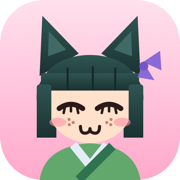
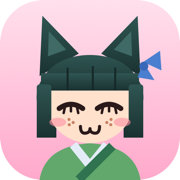
Héroïne fidèle à la figurine sur l'écran d'accueil
- Grands yeux violets aux reflets en étoile, cils épais, bouche « tehe » langue tirée ;
  les yeux fermés d'aise deviennent le clignement
- Bras avec coude : pose « pattes de chat », petites mains levées près de la poitrine,
  mains avec doigts esquissés
- Ruban bleu, perles rouge et bleue sur les tresses, cadrage rapproché au menu
- Icône : ruban bleu

Changed region(s): [[0.75, 0.2778, 0.9167, 0.4444]]

diff --git a/js/girl.js b/js/girl.js
@@ -10,14 +10,14 @@ const COL = {
   collar: '#e4ecf7',
   collarBlue: '#b9c9e6',
   shoe: '#3a2430',
-  beadPink: '#e86a8a',
-  beadTeal: '#3fb3a0',
+  beadPink: '#d8303a',
+  beadTeal: '#2f6fb8',
   dark: '#2b1a1a',
 };
 
 // Tenues débloquées tous les 10 bonbons : haut, poignets, bandoulière, jupe, ruban
 export const PALETTES = [
-  { name: 'Jade', top: '#62a86c', cuff: '#b4dc84', sash: '#2f7350', skirt: '#7d2a4c', ribbon: '#8a6ad8' },
+  { name: 'Jade', top: '#62a86c', cuff: '#b4dc84', sash: '#2f7350', skirt: '#7d2a4c', ribbon: '#4a7fd0' },
   { name: 'Sakura', top: '#f49ac0', cuff: '#ffd6e6', sash: '#c2457a', skirt: '#3b4a8a', ribbon: '#ffd23f' },
   { name: 'Lavande', top: '#a98be0', cuff: '#e2d4ff', sash: '#6a4bb8', skirt: '#3d2f63', ribbon: '#ff8fb6' },
   { name: 'Ciel', top: '#6fb3e8', cuff: '#cfe8ff', sash: '#2e6fb0', skirt: '#24406e', ribbon: '#ffd23f' },
@@ -35,7 +35,18 @@ function toonGradient(levels) {
 }
 
 // ---------- Visage dessiné (texture sur la sphère de la tête, centrée en u = 0.75) ----------
-const FACE_W = 1024, FACE_H = 512, FCX = 768, EYE_Y = 270, EYE_DX = 64;
+const FACE_W = 1024, FACE_H = 512, FCX = 768, EYE_Y = 284, EYE_DX = 66;
+
+// étoile à 4 branches (reflet dans les yeux)
+function star4(g, x, y, r) {
+  g.beginPath();
+  g.moveTo(x, y - r);
+  g.quadraticCurveTo(x + r * 0.15, y - r * 0.15, x + r * 0.8, y);
+  g.quadraticCurveTo(x + r * 0.15, y + r * 0.15, x, y + r);
+  g.quadraticCurveTo(x - r * 0.15, y + r * 0.15, x - r * 0.8, y);
+  g.quadraticCurveTo(x - r * 0.15, y - r * 0.15, x, y - r);
+  g.fill();
+}
 
 function drawFace(kind) {
   const c = document.createElement('canvas');
@@ -49,27 +60,27 @@ function drawFace(kind) {
 
   for (const sx of [-1, 1]) {
     // joues roses et petits traits
-    const bx = FCX + sx * 98, by = 306;
-    const grd = g.createRadialGradient(bx, by, 2, bx, by, 34);
-    grd.addColorStop(0, 'rgba(255,125,140,0.45)');
+    const bx = FCX + sx * 104, by = 326;
+    const grd = g.createRadialGradient(bx, by, 2, bx, by, 32);
+    grd.addColorStop(0, 'rgba(255,125,140,0.42)');
     grd.addColorStop(1, 'rgba(255,125,140,0)');
     g.fillStyle = grd;
     g.beginPath();
-    g.ellipse(bx, by, 36, 22, 0, 0, Math.PI * 2);
+    g.ellipse(bx, by, 34, 20, 0, 0, Math.PI * 2);
     g.fill();
-    g.strokeStyle = 'rgba(225,90,110,0.7)';
-    g.lineWidth = 3;
+    g.strokeStyle = 'rgba(225,90,110,0.6)';
+    g.lineWidth = 2.5;
     for (let i = -1; i <= 1; i++) {
       g.beginPath();
-      g.moveTo(bx + 14 + i * 9 - 4, by + 8);
-      g.lineTo(bx + 14 + i * 9 + 4, by - 8);
+      g.moveTo(bx + 12 + i * 8 - 3, by + 7);
+      g.lineTo(bx + 12 + i * 8 + 3, by - 7);
       g.stroke();
     }
-    // taches de rousseur
-    g.fillStyle = 'rgba(185,105,70,0.75)';
-    for (const [dx, dy] of [[-30, 2], [-20, -6], [-14, 6], [-24, 12], [-36, -4]]) {
+    // taches de rousseur sous les yeux
+    g.fillStyle = 'rgba(185,105,70,0.8)';
+    for (const [dx, dy] of [[-26, 0], [-16, -6], [-10, 5], [-20, 10], [-32, -6], [-4, -2]]) {
       g.beginPath();
-      g.arc(FCX + sx * (EYE_DX + dx + 4), 304 + dy, 2.6, 0, Math.PI * 2);
+      g.arc(FCX + sx * (EYE_DX + dx), 330 + dy, 2.4, 0, Math.PI * 2);
       g.fill();
     }
   }
@@ -78,11 +89,37 @@ function drawFace(kind) {
   for (const sx of [-1, 1]) {
     const ex = FCX + sx * EYE_DX, ey = EYE_Y;
     if (kind === 'open') {
+      // grands yeux violets aux reflets en étoile
+      g.fillStyle = '#ffffff';
+      g.beginPath(); g.ellipse(ex, ey + 3, 31, 36, 0, 0, Math.PI * 2); g.fill();
+      const ig = g.createLinearGradient(0, ey - 32, 0, ey + 38);
+      ig.addColorStop(0, '#2a1450');
+      ig.addColorStop(0.45, '#5b34a8');
+      ig.addColorStop(1, '#c9a6ff');
+      g.fillStyle = ig;
+      g.beginPath(); g.ellipse(ex, ey + 5, 27, 33, 0, 0, Math.PI * 2); g.fill();
+      g.fillStyle = 'rgba(25,10,45,0.85)';
+      g.beginPath(); g.ellipse(ex, ey + 2, 14, 17, 0, 0, Math.PI * 2); g.fill();
+      g.fillStyle = '#ffffff';
+      star4(g, ex, ey + 2, 17);                   // étoile centrale
+      g.beginPath(); g.arc(ex - sx * 12, ey - 15, 5, 0, Math.PI * 2); g.fill();
+      g.beginPath(); g.arc(ex + sx * 13, ey + 22, 3, 0, Math.PI * 2); g.fill();
+      // trait de cils épais, légèrement inquiet (plus haut côté intérieur)
+      g.lineWidth = 8;
+      g.beginPath();
+      g.moveTo(ex - sx * 34, ey - 18);
+      g.quadraticCurveTo(ex, ey - 40, ex + sx * 32, ey - 28);
+      g.stroke();
+      g.lineWidth = 5;
+      g.beginPath(); g.moveTo(ex - sx * 33, ey - 17); g.lineTo(ex - sx * 44, ey - 9); g.stroke();
+      g.lineWidth = 2.5;
+      g.beginPath(); g.moveTo(ex - sx * 16, ey + 40); g.quadraticCurveTo(ex - sx * 26, ey + 38, ex - sx * 30, ey + 28); g.stroke();
+    } else if (kind === 'blink') {
       // yeux fermés d'aise : trait arrondi et petits cils dessous
       g.lineWidth = 8;
       g.beginPath();
-      g.moveTo(ex - 36, ey + 4);
-      g.quadraticCurveTo(ex, ey - 12, ex + 36, ey + 4);
+      g.moveTo(ex - 34, ey + 4);
+      g.quadraticCurveTo(ex, ey - 12, ex + 34, ey + 4);
       g.stroke();
       g.lineWidth = 4;
       for (const k of [-0.55, 0, 0.55]) {
@@ -95,8 +132,8 @@ function drawFace(kind) {
     } else if (kind === 'happy') {
       g.lineWidth = 9;
       g.beginPath();
-      g.moveTo(ex - 32, ey + 12);
-      g.quadraticCurveTo(ex, ey - 28, ex + 32, ey + 12);
+      g.moveTo(ex - 30, ey + 10);
+      g.quadraticCurveTo(ex, ey - 28, ex + 30, ey + 10);
       g.stroke();
     } else if (kind === 'ouch') {
       g.lineWidth = 9;
@@ -112,33 +149,46 @@ function drawFace(kind) {
   }
 
   // bouche
-  const my = 338;
+  const my = 352;
   if (kind === 'happy' || kind === 'ouch') {
     g.fillStyle = '#b8344b';
     g.beginPath();
     if (kind === 'happy') {
-      g.moveTo(FCX - 20, my - 6);
-      g.quadraticCurveTo(FCX, my + 34, FCX + 20, my - 6);
+      g.moveTo(FCX - 18, my - 6);
+      g.quadraticCurveTo(FCX, my + 30, FCX + 18, my - 6);
       g.closePath();
     } else {
-      g.ellipse(FCX, my + 2, 11, 9, 0, 0, Math.PI * 2);
+      g.ellipse(FCX, my + 2, 10, 8, 0, 0, Math.PI * 2);
     }
     g.fill();
     g.save();
     g.clip();
     g.fillStyle = '#ff8fa6';
-    g.beginPath(); g.ellipse(FCX, my + 14, 12, 7, 0, 0, Math.PI * 2); g.fill();
+    g.beginPath(); g.ellipse(FCX, my + 13, 11, 6, 0, 0, Math.PI * 2); g.fill();
     g.restore();
   } else {
-    // bouche de chat "ω"
-    g.strokeStyle = COL.dark;
-    g.lineWidth = 5;
+    // "tehe" : petite bouche ouverte et langue tirée
+    g.fillStyle = '#9a2a3a';
     g.beginPath();
-    g.moveTo(FCX - 24, my - 6);
-    g.quadraticCurveTo(FCX - 24, my + 10, FCX - 12, my + 8);
-    g.quadraticCurveTo(FCX, my + 6, FCX, my - 2);
-    g.quadraticCurveTo(FCX, my + 6, FCX + 12, my + 8);
-    g.quadraticCurveTo(FCX + 24, my + 10, FCX + 24, my - 6);
+    g.moveTo(FCX - 16, my - 4);
+    g.quadraticCurveTo(FCX, my - 9, FCX + 16, my - 4);
+    g.quadraticCurveTo(FCX + 12, my + 10, FCX, my + 11);
+    g.quadraticCurveTo(FCX - 12, my + 10, FCX - 16, my - 4);
+    g.fill();
+    g.fillStyle = '#ff8a9e';
+    g.beginPath();
+    g.moveTo(FCX - 10, my + 4);
+    g.quadraticCurveTo(FCX - 12, my + 24, FCX + 1, my + 25);
+    g.quadraticCurveTo(FCX + 12, my + 24, FCX + 10, my + 4);
+    g.fill();
+    g.strokeStyle = '#e0607a';
+    g.lineWidth = 2;
+    g.beginPath(); g.moveTo(FCX, my + 9); g.lineTo(FCX, my + 18); g.stroke();
+    g.strokeStyle = COL.dark;
+    g.lineWidth = 3;
+    g.beginPath();
+    g.moveTo(FCX - 17, my - 4);
+    g.quadraticCurveTo(FCX, my - 10, FCX + 17, my - 4);
     g.stroke();
   }
 
@@ -270,14 +320,23 @@ export class Girl {
     add(B, cyl(0.052, 0.052, 0.1), m(COL.skin), [0, 1.32, 0]);
 
     // ---------- Bras : larges manches de kimono ----------
+    // bras en deux parties (coude) pour pouvoir lever les petites mains
+    this.forearms = [];
     this.arms = [-1, 1].map((sx) => {
       const arm = group(B, [sx * 0.19, 1.25, 0]);
       add(arm, sph, pal.top, [0, -0.02, 0], [0.08, 0.08, 0.08]);
-      add(arm, cyl(0.07, 0.125, 0.34), pal.top, [0, -0.19, 0]);
-      add(arm, cyl(0.128, 0.128, 0.06, 16, true), pal.cuff, [0, -0.36, 0]);
-      add(arm, cyl(0.131, 0.131, 0.015, 16, true), pal.sash, [0, -0.335, 0]);
-      add(arm, cyl(0.075, 0.075, 0.05, 12, true), m(COL.collar), [0, -0.38, 0]);   // manche intérieure blanche
-      add(arm, sph, m(COL.skin), [0, -0.39, 0], [0.045, 0.05, 0.04]);
+      add(arm, cyl(0.07, 0.1, 0.18), pal.top, [0, -0.09, 0]);
+      const fore = group(arm, [0, -0.17, 0]);
+      add(fore, sph, pal.top, [0, 0, 0], [0.095, 0.06, 0.095]);
+      add(fore, cyl(0.098, 0.125, 0.17), pal.top, [0, -0.085, 0]);
+      add(fore, cyl(0.128, 0.128, 0.06, 16, true), pal.cuff, [0, -0.19, 0]);
+      add(fore, cyl(0.131, 0.131, 0.015, 16, true), pal.sash, [0, -0.165, 0]);
+      add(fore, cyl(0.075, 0.075, 0.05, 12, true), m(COL.collar), [0, -0.21, 0]);   // manche intérieure blanche
+      // petite main avec doigts esquissés
+      add(fore, sph, m(COL.skin), [0, -0.235, 0], [0.05, 0.055, 0.035]);
+      for (const f of [-1, 0, 1]) add(fore, sph, m(COL.skin), [f * 0.025, -0.285, 0], [0.014, 0.024, 0.014]);
+      add(fore, sph, m(COL.skin), [-sx * 0.045, -0.25, 0], [0.013, 0.022, 0.013], [0, 0, sx * 0.6]);
+      this.forearms.push(fore);
       return arm;
     });
 
@@ -299,8 +358,7 @@ export class Girl {
     // ---------- Tête ----------
     const H = (this.head = group(B, [0, 1.63, 0]));
     H.scale.setScalar(1.06);
-    const open = drawFace('open');
-    this.faceTex = { open, blink: open, happy: drawFace('happy'), ouch: drawFace('ouch') };
+    this.faceTex = { open: drawFace('open'), blink: drawFace('blink'), happy: drawFace('happy'), ouch: drawFace('ouch') };
     this.faceMat = new THREE.MeshToonMaterial({ map: this.faceTex.open, gradientMap: toonGradient([200, 235, 255]) });
     add(H, new THREE.SphereGeometry(1, 48, 32), this.faceMat, [0, 0, 0], [0.34, 0.34, 0.34]);
     this.face = 'open';
@@ -406,7 +464,7 @@ export class Girl {
     const [legL, legR] = this.legs;
     const [armL, armR] = this.arms;
     const tgt = {
-      legL: 0, legR: 0, armLx: 0, armRx: 0, armLz: -0.25, armRz: 0.25,
+      legL: 0, legR: 0, armLx: 0, armRx: 0, armLz: -0.25, armRz: 0.25, fore: 0.35,
       bodyY: 0, lean: 0, headZ: 0, headX: 0,
     };
     let tailSpeed = 3, tailAmp = 0.25, tailLift = 0.75;
@@ -427,10 +485,14 @@ export class Girl {
       tgt.headX = 0.1;
       tailSpeed = 6; tailAmp = 0.15; tailLift = 1.5;
     } else if (mode === 'idle') {
+      // pose "pattes de chat" : petites mains levées de part et d'autre de la poitrine
       tgt.bodyY = Math.sin(t * 2.2) * 0.02;
-      tgt.armRz = 2.55 + Math.sin(t * 8) * 0.3;
-      tgt.armLz = -0.3;
-      tgt.headZ = Math.sin(t * 1.4) * 0.12;
+      tgt.armLx = 0.35; tgt.armRx = 0.35;
+      tgt.armLz = -0.32; tgt.armRz = 0.32;
+      tgt.fore = 2.15;
+      tgt.foreWave = Math.sin(t * 5) * 0.12;
+      tgt.headZ = Math.sin(t * 1.4) * 0.1;
+      tgt.headX = 0.06;
     } else if (mode === 'dead') {
       tgt.armLz = -2.2; tgt.armRz = 2.2;
       tgt.legL = 0.5; tgt.legR = -0.2;
@@ -442,6 +504,10 @@ export class Girl {
     armL.rotation.x = lerp(armL.rotation.x, tgt.armLx, k);
     armR.rotation.x = lerp(armR.rotation.x, tgt.armRx, k);
     armL.rotation.z = lerp(armL.rotation.z, tgt.armLz, k);
+    this.forearms.forEach((f, i) => {
+      const w = tgt.foreWave ? (i ? -tgt.foreWave : tgt.foreWave) : 0;
+      f.rotation.x = lerp(f.rotation.x, tgt.fore + w, k);
+    });
     armR.rotation.z = lerp(armR.rotation.z, tgt.armRz, k);
     this.body.position.y = lerp(this.body.position.y, -0.55 + tgt.bodyY, k);
     this.body.rotation.x = lerp(this.body.rotation.x, tgt.lean, k);
@@ -472,17 +538,17 @@ export class Girl {
     }
 
     // expressions : yeux fermés d'aise, sourire en saut / en saluant, >< en cas de choc
-    if (mode === 'idle') {
-      this.happyT -= dt;
-      if (this.happyT < -4) this.happyT = 1.4;
-    }
+    this.nextBlink -= dt;
+    if (this.nextBlink <= 0) { this.blinkT = 0.14; this.nextBlink = 2.2 + Math.random() * 2.5; }
+    this.blinkT -= dt;
     if (this.pop > 0) {
       this.pop = Math.max(0, this.pop - dt * 2);
       this.root.scale.setScalar(this.baseScale * (1 + Math.sin(this.pop * Math.PI * 3) * 0.12 * this.pop));
     }
     let face = 'open';
     if (mode === 'dead') face = 'ouch';
-    else if (mode === 'jump' || mode === 'roll' || this.pop > 0 || (mode === 'idle' && this.happyT > 0)) face = 'happy';
+    else if (mode === 'jump' || mode === 'roll' || this.pop > 0) face = 'happy';
+    else if (this.blinkT > 0) face = 'blink';
     this.setFace(face);
   }
 }

diff --git a/js/main.js b/js/main.js
@@ -391,11 +391,11 @@ const portrait = () => THREE.MathUtils.clamp((1.1 - camera.aspect) / 0.6, 0, 1);
 function camTargets(out, look) {
   const back = (1 - Math.cos(camAngle)) / 2;   // 0 = face à elle (menu), 1 = derrière (course)
   const pf = portrait();
-  const r = THREE.MathUtils.lerp(4.0, 6.6 + pf * 1.1, back);
-  const camY = THREE.MathUtils.lerp(1.5, player.y * 0.75 + 3.3 + pf * 1.0, back);
+  const r = THREE.MathUtils.lerp(2.75, 6.6 + pf * 1.1, back);   // menu : cadrage rapproché
+  const camY = THREE.MathUtils.lerp(1.25, player.y * 0.75 + 3.3 + pf * 1.0, back);
   const follow = 0.8 + pf * 0.2;
   out.set(player.x * follow * back + Math.sin(camAngle) * r, camY, player.z - Math.cos(camAngle) * r);
-  look.set(player.x * (0.9 + pf * 0.1) * back, THREE.MathUtils.lerp(1.15, player.y * 0.6 + 1.1, back), player.z - 10 * back);
+  look.set(player.x * (0.9 + pf * 0.1) * back, THREE.MathUtils.lerp(0.98, player.y * 0.6 + 1.1, back), player.z - 10 * back);
 }
 
 function snapCamera() {
